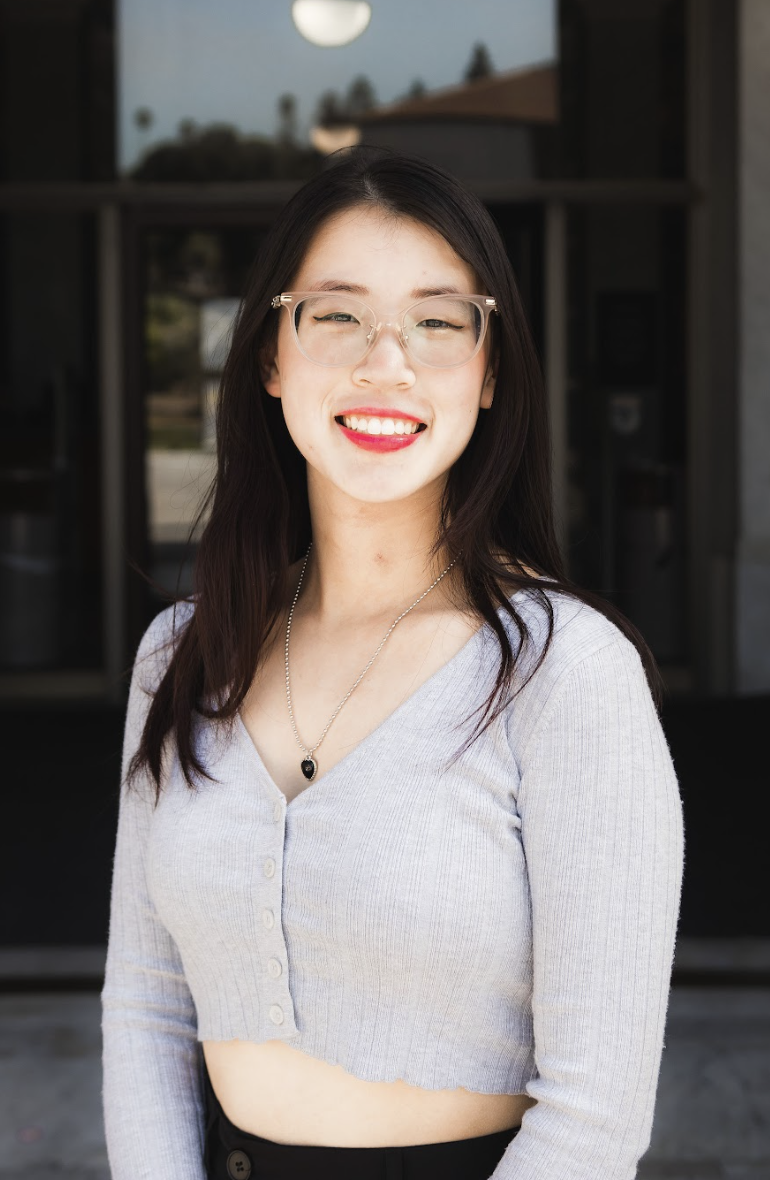
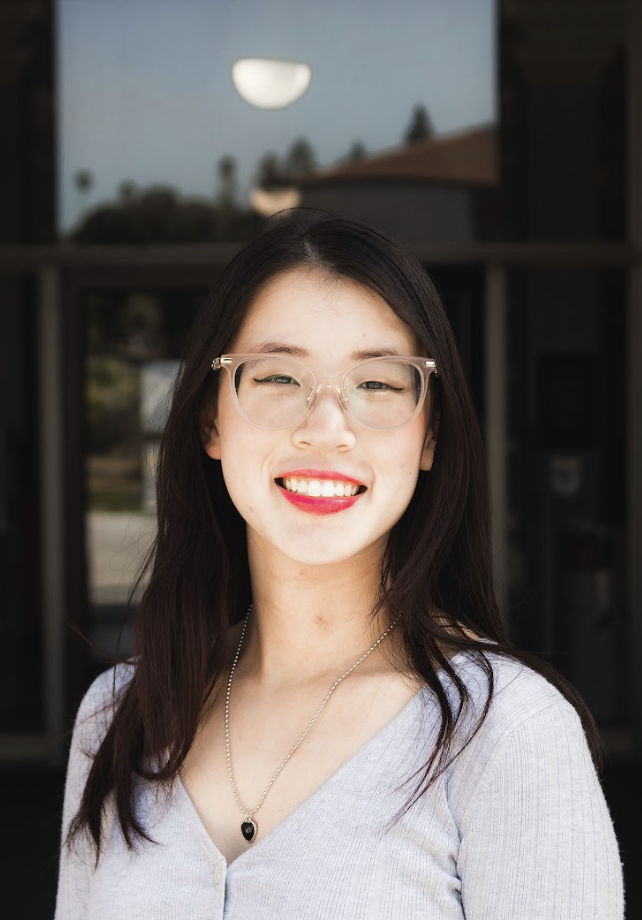
revised frames

diff --git a/src/components/AboutPage/Leadership.jsx b/src/components/AboutPage/Leadership.jsx
@@ -53,20 +53,24 @@ const LeadersContainer = styled.div`
     // border: black solid;
 `
 const LeaderImage = styled.img`
+    // NOTE!!!! Frame radio: 1 (width) to 1.46 (height)
     width: 225px;
-    height: 295px; 
+    height: 305px; 
     border-radius: 10px;
     margin-top: 10px;
-    // border: solid black;
-
     padding-bottom: 10px;
+    transition: filter 0.5s;
+    
+
+    
+    // border: solid black;
 `
 const LeaderInfo = styled.div`
     width: 250px;
     height: 500px;
     position: absolute;
     overflow: hidden;
-    margin-top: 320px;
+    margin-top: 330px;
     
     display: flex; 
     flex-direction: column;
@@ -94,8 +98,12 @@ const LeaderCard = styled.div`
 
 
     &:hover ${LeaderInfo} {
-        margin-top: 0px;
+        margin-top: 100px;
       }
+
+    &:hover ${LeaderImage} {
+        filter: blur(2px);
+    }
     
     padding-top: 10px;
 
@@ -111,18 +119,17 @@ function Leadership() {
                 <LeaderCard>
                     <LeaderImage src={jordan} alt="leader " /> 
                     <LeaderInfo> 
-                   
-                    <LeadershipInfo fullname="Jordan Yee" position="President" grade="Senior" 
-                    major="EECS" hobbies="sports, sports, apple"
-                    email="jordantyee@berkeley.edu" linkedin="https://www.linkedin.com/in/jordan-terence-yee/"
-                    calendlylink="calendly.com"/>
+                        <LeadershipInfo fullname="Jordan Yee" position="President" grade="Senior" 
+                        major="EECS" hobbies="sports, sports, apple"
+                        email="jordantyee@berkeley.edu" linkedin="https://www.linkedin.com/in/jordan-terence-yee/"
+                        calendlylink="calendly.com"/>
                     </LeaderInfo>
                 </LeaderCard>
                 <LeaderCard>
                     <LeaderImage src={yuta} alt="leader " /> 
                     <LeaderInfo> 
                         <LeadershipInfo fullname="Yuta Yamada" position="VP Fellowship & IVP" grade="Junior" 
-                        major="CS & DS" hobbies="tennis, music production, causing trouble"
+                        major="Computer Science, Data Science" hobbies="tennis, lots of manga, music production, parties :D"
                         email="yutayamada@berkeley.edu" linkedin="https://www.linkedin.com/in/yutayamada/"
                         calendlylink="HELLO"/>
                     </LeaderInfo>
@@ -130,132 +137,118 @@ function Leadership() {
                 <LeaderCard>
                     <LeaderImage src={hana} alt="leader " /> 
                     <LeaderInfo> 
-                   
-                    <LeadershipInfo fullname="Hana McNierney" position="VP of Projects" grade="Junior" 
-                    major="Business" hobbies="dogs and cats"
-                    email="hanamcnierney@berkeley.edu" linkedin="https://www.linkedin.com/in/hana-mcnierney/"
-                    calendlylink="HELLO"/>
+                        <LeadershipInfo fullname="Hana McNierney" position="VP of Projects" grade="Junior" 
+                        major="Business" hobbies="dogs and cats"
+                        email="hanamcnierney@berkeley.edu" linkedin="https://www.linkedin.com/in/hana-mcnierney/"
+                        calendlylink="HELLO"/>
                     </LeaderInfo>
                 </LeaderCard>
                 <LeaderCard>
                     <LeaderImage src={geetanjali} alt="leader " /> 
                     <LeaderInfo> 
-                   
-                    <LeadershipInfo fullname="Geetanjali Jain" position="Internal Vice President" grade="Junior" 
-                    major="Data Science" hobbies="going on long walks, hosting game nights, trying new recipes and playing with dogs"
-                    email="gjainn@berkeley.edu" linkedin="https://www.linkedin.com/in/gjainn/"
-                    calendlylink="HELLO"/>
+                        <LeadershipInfo fullname="Geetanjali Jain" position="Internal Vice President" grade="Junior" 
+                        major="Data Science" hobbies="going on long walks, hosting game nights, trying new recipes and playing with dogs"
+                        email="gjainn@berkeley.edu" linkedin="https://www.linkedin.com/in/gjainn/"
+                        calendlylink="HELLO"/>
                     </LeaderInfo>
                 </LeaderCard>
                 <LeaderCard>
                     <LeaderImage src={krish} alt="leader " /> 
                     <LeaderInfo> 
-                   
-                    <LeadershipInfo fullname="Krish Kumar" position="VP of Development" grade="Junior" 
-                    major="Computer Science" hobbies="Basketball, photography, dining experience, video games"
-                    email="krishkumar@berkeley.edu" linkedin="https://www.linkedin.com/in/krishh-kumar/"
-                    calendlylink="HELLO"/>
+                        <LeadershipInfo fullname="Krish Kumar" position="VP of Development" grade="Junior" 
+                        major="Computer Science" hobbies="Basketball, photography, dining experience, video games"
+                        email="krishkumar@berkeley.edu" linkedin="https://www.linkedin.com/in/krishh-kumar/"
+                        calendlylink="HELLO"/>
                     </LeaderInfo>
                 </LeaderCard>
                 <LeaderCard>
                     <LeaderImage src={michelle} alt="leader " /> 
                     <LeaderInfo> 
-                   
-                    <LeadershipInfo fullname="Michelle Lee" position="Fellowship Mentor" grade="Junior" 
-                    major="Computer Science" hobbies="Basketball, photography, dining experience, video games"
-                    email="krishkumar@berkeley.edu" linkedin="https://www.linkedin.com/in/krishh-kumar/"
-                    calendlylink="HELLO"/>
+                        <LeadershipInfo fullname="Michelle Lee" position="Fellowship Mentor" grade="Junior" 
+                        major="Business, Data Science" hobbies="Product design, podcasts, cafe hopping, karaoke, pottery"
+                        email="michdlee@berkeley.edu" linkedin="https://www.linkedin.com/in/michdlee/"
+                        calendlylink="HELLO"/>
                     </LeaderInfo>
                 </LeaderCard>
                 <LeaderCard>
                     <LeaderImage src={garrett} alt="leader " /> 
                     <LeaderInfo> 
-                   
-                    <LeadershipInfo fullname="Garrett Chau" position="Fellowship Mentor" grade="Senior" 
-                    major="Computer Science" hobbies="Basketball, photography, dining experience, video games"
-                    email="krishkumar@berkeley.edu" linkedin="https://www.linkedin.com/in/krishh-kumar/"
-                    calendlylink="HELLO"/>
+                        <LeadershipInfo fullname="Garrett Chau" position="Fellowship Mentor" grade="Senior" 
+                        major="Business, Data Science" hobbies="Mechanical Keyboards, Cars, Chipotle, Gym"
+                        email="gchau@berkeley.edu" linkedin="https://www.linkedin.com/in/garrett-chau/"
+                        calendlylink="HELLO"/>
                     </LeaderInfo>
                 </LeaderCard>
                 <LeaderCard>
                     <LeaderImage src={cady} alt="leader " /> 
                     <LeaderInfo> 
-                   
-                    <LeadershipInfo fullname="Cady Hsu" position="Fellowship Mentor" grade="Junior" 
-                    major="Computer Science" hobbies="Basketball, photography, dining experience, video games"
-                    email="krishkumar@berkeley.edu" linkedin="https://www.linkedin.com/in/krishh-kumar/"
-                    calendlylink="HELLO"/>
+                        <LeadershipInfo fullname="Cady Hsu" position="Fellowship Mentor" grade="Junior" 
+                        major="Data Science, Economics " hobbies="Going to beach, thrifting, exploring new coffee shops, baking"
+                        email="cadencehsu@berkeley.edu" linkedin="https://www.linkedin.com/in/cadyhsu/"
+                        calendlylink="HELLO"/>
                     </LeaderInfo>
                 </LeaderCard>
                 <LeaderCard>
                     <LeaderImage src={anisa} alt="leader " /> 
                     <LeaderInfo> 
-                   
-                    <LeadershipInfo fullname="Anisa Majhi" position="Project Manager" grade="Sophomore" 
-                    major="Computer Science" hobbies="Basketball, photography, dining experience, video games"
-                    email="krishkumar@berkeley.edu" linkedin="https://www.linkedin.com/in/krishh-kumar/"
-                    calendlylink="HELLO"/>
+                        <LeadershipInfo fullname="Anisa Majhi" position="Project Manager" grade="Sophomore" 
+                        major="Computer Science" hobbies="Traveling, Stargazing, Movies, Reading"
+                        email="anisamajhi@berkeley.edu" linkedin="https://www.linkedin.com/in/anisamajhi/"
+                        calendlylink="HELLO"/>
                     </LeaderInfo>
                 </LeaderCard>
                 <LeaderCard>
                     <LeaderImage src={tyler} alt="leader " /> 
                     <LeaderInfo> 
-                   
-                    <LeadershipInfo fullname="Truong Nguyen" position="Project Manager" grade="Junior" 
-                    major="Computer Science" hobbies="Basketball, photography, dining experience, video games"
-                    email="krishkumar@berkeley.edu" linkedin="https://www.linkedin.com/in/krishh-kumar/"
-                    calendlylink="HELLO"/>
+                        <LeadershipInfo fullname="Truong Nguyen" position="Project Manager" grade="Junior" 
+                        major="Computer Science, Business" hobbies="Basketball, photography, dining experience, video games"
+                        email="truongnguyen@berkeley.edu" linkedin="https://www.linkedin.com/in/truong-h-nguyen/"
+                        calendlylink="HELLO"/>
                     </LeaderInfo>
                 </LeaderCard>
                 <LeaderCard>
                     <LeaderImage src={shannon} alt="leader " /> 
                     <LeaderInfo> 
-                   
-                    <LeadershipInfo fullname="Shannon Or" position="Project Manager" grade="Junior" 
-                    major="Computer Science" hobbies="Basketball, photography, dining experience, video games"
-                    email="krishkumar@berkeley.edu" linkedin="https://www.linkedin.com/in/krishh-kumar/"
-                    calendlylink="HELLO"/>
+                        <LeadershipInfo fullname="Shannon Or" position="Project Manager" grade="Junior" 
+                        major="EECS" hobbies="Basketball, Snowboarding, Traveling, Cooking"
+                        email="shannonor@berkeley.edu" linkedin="https://www.linkedin.com/in/shannonorsn/"
+                        calendlylink="HELLO"/>
                     </LeaderInfo>
                 </LeaderCard>
                 <LeaderCard>
                     <LeaderImage src={raymond} alt="leader " /> 
                     <LeaderInfo> 
-                   
-                    <LeadershipInfo fullname="Raymond Feng" position="Project Manager" grade="Junior" 
-                    major="Computer Science" hobbies="Basketball, photography, dining experience, video games"
-                    email="krishkumar@berkeley.edu" linkedin="https://www.linkedin.com/in/krishh-kumar/"
-                    calendlylink="HELLO"/>
+                        <LeadershipInfo fullname="Raymond Feng" position="Project Manager" grade="Junior" 
+                        major="Economics, Data Science" hobbies="Sports, Piano, Sneakers, Pokemon"
+                        email="raymondfeng@berkeley.edu" linkedin="https://www.linkedin.com/in/raymondcfeng/"
+                        calendlylink="HELLO"/>
                     </LeaderInfo>
                 </LeaderCard>
                 <LeaderCard>
                     <LeaderImage src={lucas} alt="leader " /> 
                     <LeaderInfo> 
-                   
-                    <LeadershipInfo fullname="Lucas Omori" position="Project Manager" grade="Junior" 
-                    major="Computer Science" hobbies="Basketball, photography, dining experience, video games"
-                    email="krishkumar@berkeley.edu" linkedin="https://www.linkedin.com/in/krishh-kumar/"
-                    calendlylink="HELLO"/>
+                        <LeadershipInfo fullname="Lucas Omori" position="Project Manager" grade="Junior" 
+                        major="Data Science" hobbies="Going to concerts, Hip Hop Dance, Playing video games, and building Lego"
+                        email="lomori@berkeley.edu" linkedin="https://www.linkedin.com/in/lucasomori/"
+                        calendlylink="HELLO"/>
                     </LeaderInfo>
                 </LeaderCard>
             
                 <LeaderCard>
                     <LeaderImage src={angela} alt="leader " /> 
                     <LeaderInfo> 
-                   
-                    <LeadershipInfo fullname="Angela Zhang" position="Content Manager" grade="Junior" 
-                    major="Computer Science" hobbies="Basketball, photography, dining experience, video games"
-                    email="krishkumar@berkeley.edu" linkedin="https://www.linkedin.com/in/krishh-kumar/"
-                    calendlylink="HELLO"/>
+                        <LeadershipInfo fullname="Angela Zhang" position="Content Manager" grade="Junior" 
+                        major="Computer Science, Cognitive Science" hobbies="Dancing, café hopping, producing music, reading"
+                        email="zhaang74@berkeley.edu" linkedin="https://www.linkedin.com/in/angela-zhang-139b8814b/"
+                        calendlylink="HELLO"/>
                     </LeaderInfo>
                 </LeaderCard>
                 <LeaderCard>
                     <LeaderImage src={tyler} alt="leader " /> 
                     <LeaderInfo> 
-                   
-                    <LeadershipInfo fullname="Lauren Sung" position="Historian" grade="Junior" 
-                    major="Computer Science" hobbies="Basketball, photography, dining experience, video games"
-                    email="krishkumar@berkeley.edu" linkedin="https://www.linkedin.com/in/krishh-kumar/"
-                    calendlylink="HELLO"/>
+                        <LeadershipInfo fullname="Lauren Sung" position="Historian" grade="Junior" 
+                        major="Cognitive Science" hobbies="Basketball, photography, dining experience, video games"
+                        email="lauren.sung@berkeley.edu" calendlylink="HELLO"/>
                     </LeaderInfo>
                 </LeaderCard>
   

diff --git a/src/components/AboutPage/LeadershipInfo.jsx b/src/components/AboutPage/LeadershipInfo.jsx
@@ -54,7 +54,7 @@ const FullName = styled.div`
 const Position = styled.div`
     height: 40px;
     margin-top: 10px;
-    padding-bottom: 40px;
+    padding-bottom: 20px;
     font-size: 18px;
     text-align: center;
 
@@ -67,14 +67,13 @@ const Position = styled.div`
 `
 
 const SubInfoContainer = styled.div`
-    width: 170px; 
-    height: 200px; 
+    width: 190px; 
     border-radius: 5px;
 
     font-size: 14px;
     gap: 10px;
 
-    padding-left: 40px;
+    padding-left: 30px;
     padding-right: 10px;
     padding-top: 10px;
     padding-bottom: 10px;
@@ -89,7 +88,6 @@ const SubInfoContainer = styled.div`
 const Hobbies = styled.div`
     padding-top: 10px;
     padding-left: 15px;
-    margin-bottom: 20px;
     width: 230px;
     font-size: 14px;
 
@@ -97,9 +95,8 @@ const Hobbies = styled.div`
     // border: solid black;
 `
 const Email = styled.div`
-
     font-size: 14px;
-    margin-top: 50px;
+    margin-top: 15px;
     margin-bottom: 10px;
 `
 const LinkContainer = styled.div`
@@ -129,8 +126,6 @@ const CoffeeChat = styled.a`
     text-decoration: none;
     border-radius: 5px;
     font-size: 14px;
-
-
     // border: solid blue;
 `
 
@@ -153,9 +148,11 @@ function LeadershipInfo(props) {
                     {email}
                 </Email>
                 <LinkContainer>
-                    <LinkedIn href={linkedin} target="_blank" rel="noopener noreferrer">
+                    {linkedin ? (
+                        <LinkedIn href={linkedin} target="_blank" rel="noopener noreferrer">
                         <img src={linkedinIcon} alt="LinkedIn" width="40" height="35"/>
                     </LinkedIn>
+                    ) : null}
                     <CoffeeChat href="calendly.com" target="_blank" rel="noopener noreferrer">
                         Coffee Chat Me! 
                     </CoffeeChat>

diff --git a/build/index.html b/build/index.html
@@ -1,1 +1,1 @@
-<!doctype html><html lang="en"><head><meta charset="utf-8"/><link rel="icon" href="/favicon.ico"/><meta name="viewport" content="width=device-width,initial-scale=1"/><meta name="theme-color" content="#000000"/><meta name="description" content="Web site created using create-react-app"/><link rel="apple-touch-icon" href="/logo192.png"/><link rel="manifest" href="/manifest.json"/><title>Product Space @ Berkeley</title><script defer="defer" src="/static/js/main.2a36e304.js"></script><link href="/static/css/main.e6c13ad2.css" rel="stylesheet"></head><body><noscript>You need to enable JavaScript to run this app.</noscript><div id="root"></div></body></html>
+<!doctype html><html lang="en"><head><meta charset="utf-8"/><link rel="icon" href="/favicon.ico"/><meta name="viewport" content="width=device-width,initial-scale=1"/><meta name="theme-color" content="#000000"/><meta name="description" content="Product Space @ UC Berkeley Official Website"/><link rel="apple-touch-icon" href="/logo192.png"/><link rel="manifest" href="/manifest.json"/><title>Product Space @ Berkeley</title><script defer="defer" src="/static/js/main.15501981.js"></script><link href="/static/css/main.e6c13ad2.css" rel="stylesheet"></head><body><noscript>You need to enable JavaScript to run this app.</noscript><div id="root"></div></body></html>
